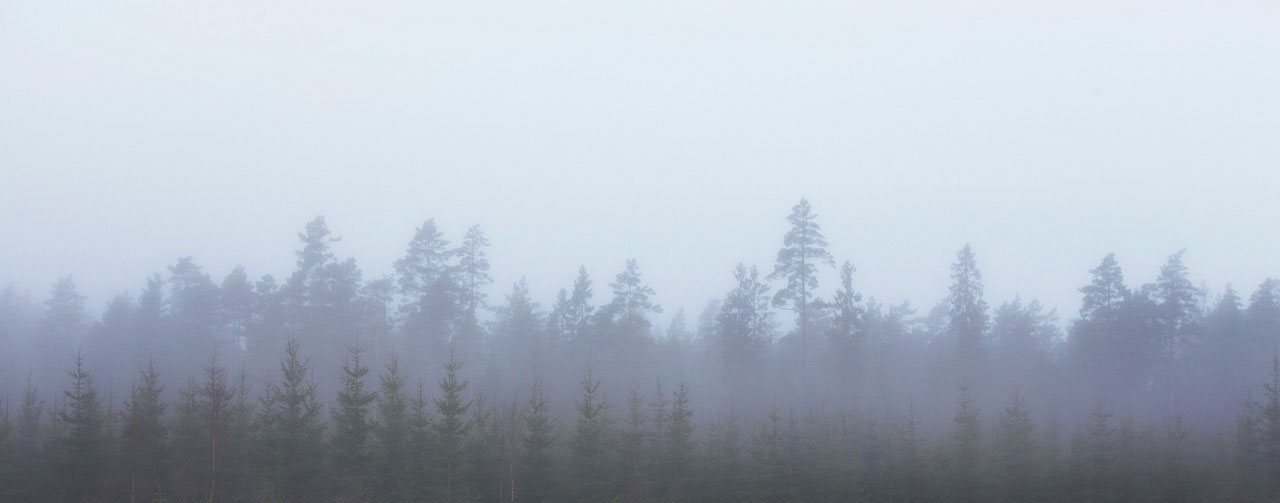
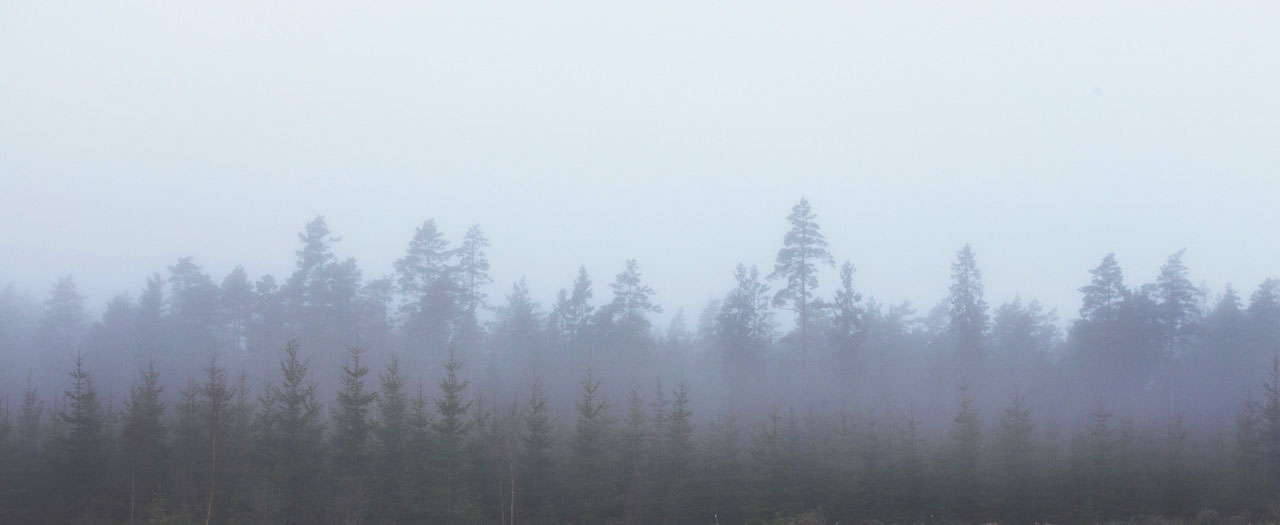
Fixing browser bugs

diff --git a/css/style.css b/css/style.css
@@ -11,12 +11,11 @@
 	padding: 10px 20px 50px;
 }
 
-
 .top {
 	background: url(../images/trees2.jpg);
 	background-size: cover;
 	-webkit-font-smoothing: antialiased;
-	height: 23.43751vw;
+	height: 28.43751vw;
 	background-position: center bottom;
 	min-height: 300px;
 }
@@ -24,13 +23,13 @@
 .title {
 	text-align: center;
 	color: red;
-	font-size: 36px;
-	line-height: 48px;
+	font-size: 5vmin;
+	line-height: 7vmin;
 	position: fixed;
 	left: 30px;
 	right: 30px;
 	z-index: 1;
-	height: 23.43751vw;
+	height: 28.43751vw;
 	min-height: 300px;
 }
 
@@ -43,28 +42,25 @@
 	color: white;
 	position: absolute;
 	top: 50%;
-	left: 50%;
-	transform: translateY(-50%) translateX(-50%);
-}
-
-
-.image-wrap {
-	position: relative;
-	background: red;
-}
-
-.image {
-	position: absolute;
-	top: 0;
 	left: 0;
+	-webkit-transform: translateY(-50%);
+	-moz-transform: translateY(-50%);
+	-ms-transform: translateY(-50%);
+	-o-transform: translateY(-50%);
+	transform: translateY(-50%);
 	width: 100%;
-	height: 100%;
+	text-align: center;
 }
 
-#top {
-	height: 23.4375vw; /* 155 / 1280 */
-	background: url(../images/trees-mask.png);
-	background-size: contain;
+.title span {
+	max-width: 1200px;
+	display: inline-block;
+}
+
+.treeline {
+	height: 28.4375vw; /* 155 / 1280 */
+	background: url(../images/trees-mask2.png);
+	background-size: cover;
 	background-position: center bottom;
 	background-repeat: no-repeat;
 	min-height: 300px;
@@ -120,6 +116,10 @@ a {
 
 a:hover {
 	text-decoration: underline;
+}
+
+h1 a {
+	color: inherit;
 }
 
 .content article p:first-child {
@@ -205,7 +205,7 @@ blockquote {
 	padding: 6px 0;
 	float: right;
 	text-align: center;
-	width: 130px;
+	width: 150px;
 	font-size: 20px;
 }
 
@@ -219,15 +219,39 @@ blockquote {
 	float: left;
 }
 
+.useful-links {
+	text-align: center;
+	padding: 30px 0;
+	color: #CCC;
+}
+
+.useful-links a {
+	padding: 0 10px;
+}
+
 .related {
 	clear: left;
 }
-
 
 pre {
 	padding: 15px;
 	color:#eee;
 	background-color:#3f3f3f
+}
+
+p code {
+	background: #EEE;
+	padding: 1px 5px;
+	border-radius: 2px;
+	border: 1px solid #DDD;
+}
+
+.highlighttable pre {
+	margin: 0;
+}
+
+.highlighttable {
+	margin-bottom: 28px;
 }
 
 .post-date {
@@ -243,8 +267,8 @@ pre {
 	}
 
 	.about {
-		margin-top: 30px;
-		width: auto;
+		margin: 30px 0;
+		width: 100%;
 		text-align: left;
 		position: relative;
 		padding: 0 0 0 100px;

diff --git a/_includes/post.html b/_includes/post.html
@@ -1,22 +1,21 @@
 <article>
-	<h1>{{ post.title }}</h1>
-    {% if page.path contains '_posts' %}{% else %}
-        {% include about.html %}
-    {% endif %}
+	<h1><a href="{{ post.url }}">{{ post.title }}</a></h1>
 	<header class="post-date">
-		<time>
-            {% assign d = post.date | date: "%-d" %}
-            {% case d %}
-              {% when '1' or '21' or '31' %}{{ d }}st
-              {% when '2' or '22' %}{{ d }}nd
-              {% when '3' or '23' %}{{ d }}rd
-              {% else %}{{ d }}th
-            {% endcase %}
-            {{ post.date | date: "%B %Y" }}
-        </time>
+		<time>{% assign d = post.date | date: "%-d" %}
+			{% case d %}
+			  {% when '1' or '21' or '31' %}{{ d }}st
+			  {% when '2' or '22' %}{{ d }}nd
+			  {% when '3' or '23' %}{{ d }}rd
+			  {% else %}{{ d }}th
+			{% endcase %}
+			{{ post.date | date: "%B %Y" }}
+		</time>
 	</header>
 	{{ post.content }}
-	<footer>
-		<a href="{{ post.url }}">Permalink</a> ~ <a href="{{ post.url }}/#comments">Comments</a>
+	<footer class="useful-links">
+		<a href="{{ post.url }}">Permalink</a> / <a href="{{ post.url }}/#comments">Comments</a>
 	</footer>
+	{% if page.path contains '_posts' %}{% else %}
+		{% include about.html %}
+	{% endif %}
 </article>

diff --git a/_layouts/layout.html b/_layouts/layout.html
@@ -9,7 +9,7 @@
 	<title>{{ page.title }}</title>
 	<meta name="description" content="The personal blog of a developer and hacker from Brighton, England.">
 	<meta name="author" content="James Moss">
-	<meta name="viewport" content="width=device-width,initial-scale=1">
+	<meta name="viewport" content="width=device-width, initial-scale=1">
     <link href="https://fonts.googleapis.com/css?family=Cabin:500|Open+Sans:400italic,400,700|Inconsolata|Lato" rel="stylesheet" type="text/css">
 	<link rel="stylesheet" href="//cdnjs.cloudflare.com/ajax/libs/normalize/3.0.1/normalize.min.css">
     <link rel="stylesheet" href="/css/style.css?v4">
@@ -18,20 +18,14 @@
 </head>
 
 <body>
-
-    {% if page.path contains '_posts' %}
     <div class="top">
         <header class="title">
-            <a href="/">{{ page.title }}</a>
+            <a href="/"><span>{{ page.title }}</span></a>
         </header>
     </div>
 
-
-    {% endif %}
-
     <div class="container">
-
-        <div id="top" class="image-wrap">
+        <div class="treeline">
 
         </div>
 

diff --git a/_layouts/post.html b/_layouts/post.html
@@ -2,11 +2,19 @@
 layout: layout
 ---
 
+<header class="post-date">
+    <time>{% assign d = page.date | date: "%-d" %}
+        {% case d %}
+          {% when '1' or '21' or '31' %}{{ d }}st
+          {% when '2' or '22' %}{{ d }}nd
+          {% when '3' or '23' %}{{ d }}rd
+          {% else %}{{ d }}th
+        {% endcase %}
+        {{ page.date | date: "%B %Y" }}
+    </time>
+</header>
+
 <article class="content">
-	<!-- <h1>{{ page.title }}</h1>
-	<header>
-		<time>{{ page.date | date: "%B %e, %Y" }}</time> ~ <a href="{{ page.url }}">Permalink</a> ~ <a href="{{ page.url }}/#comments">Comments</a>
-	</header> -->
 	{{ content }}
 </article>
 
